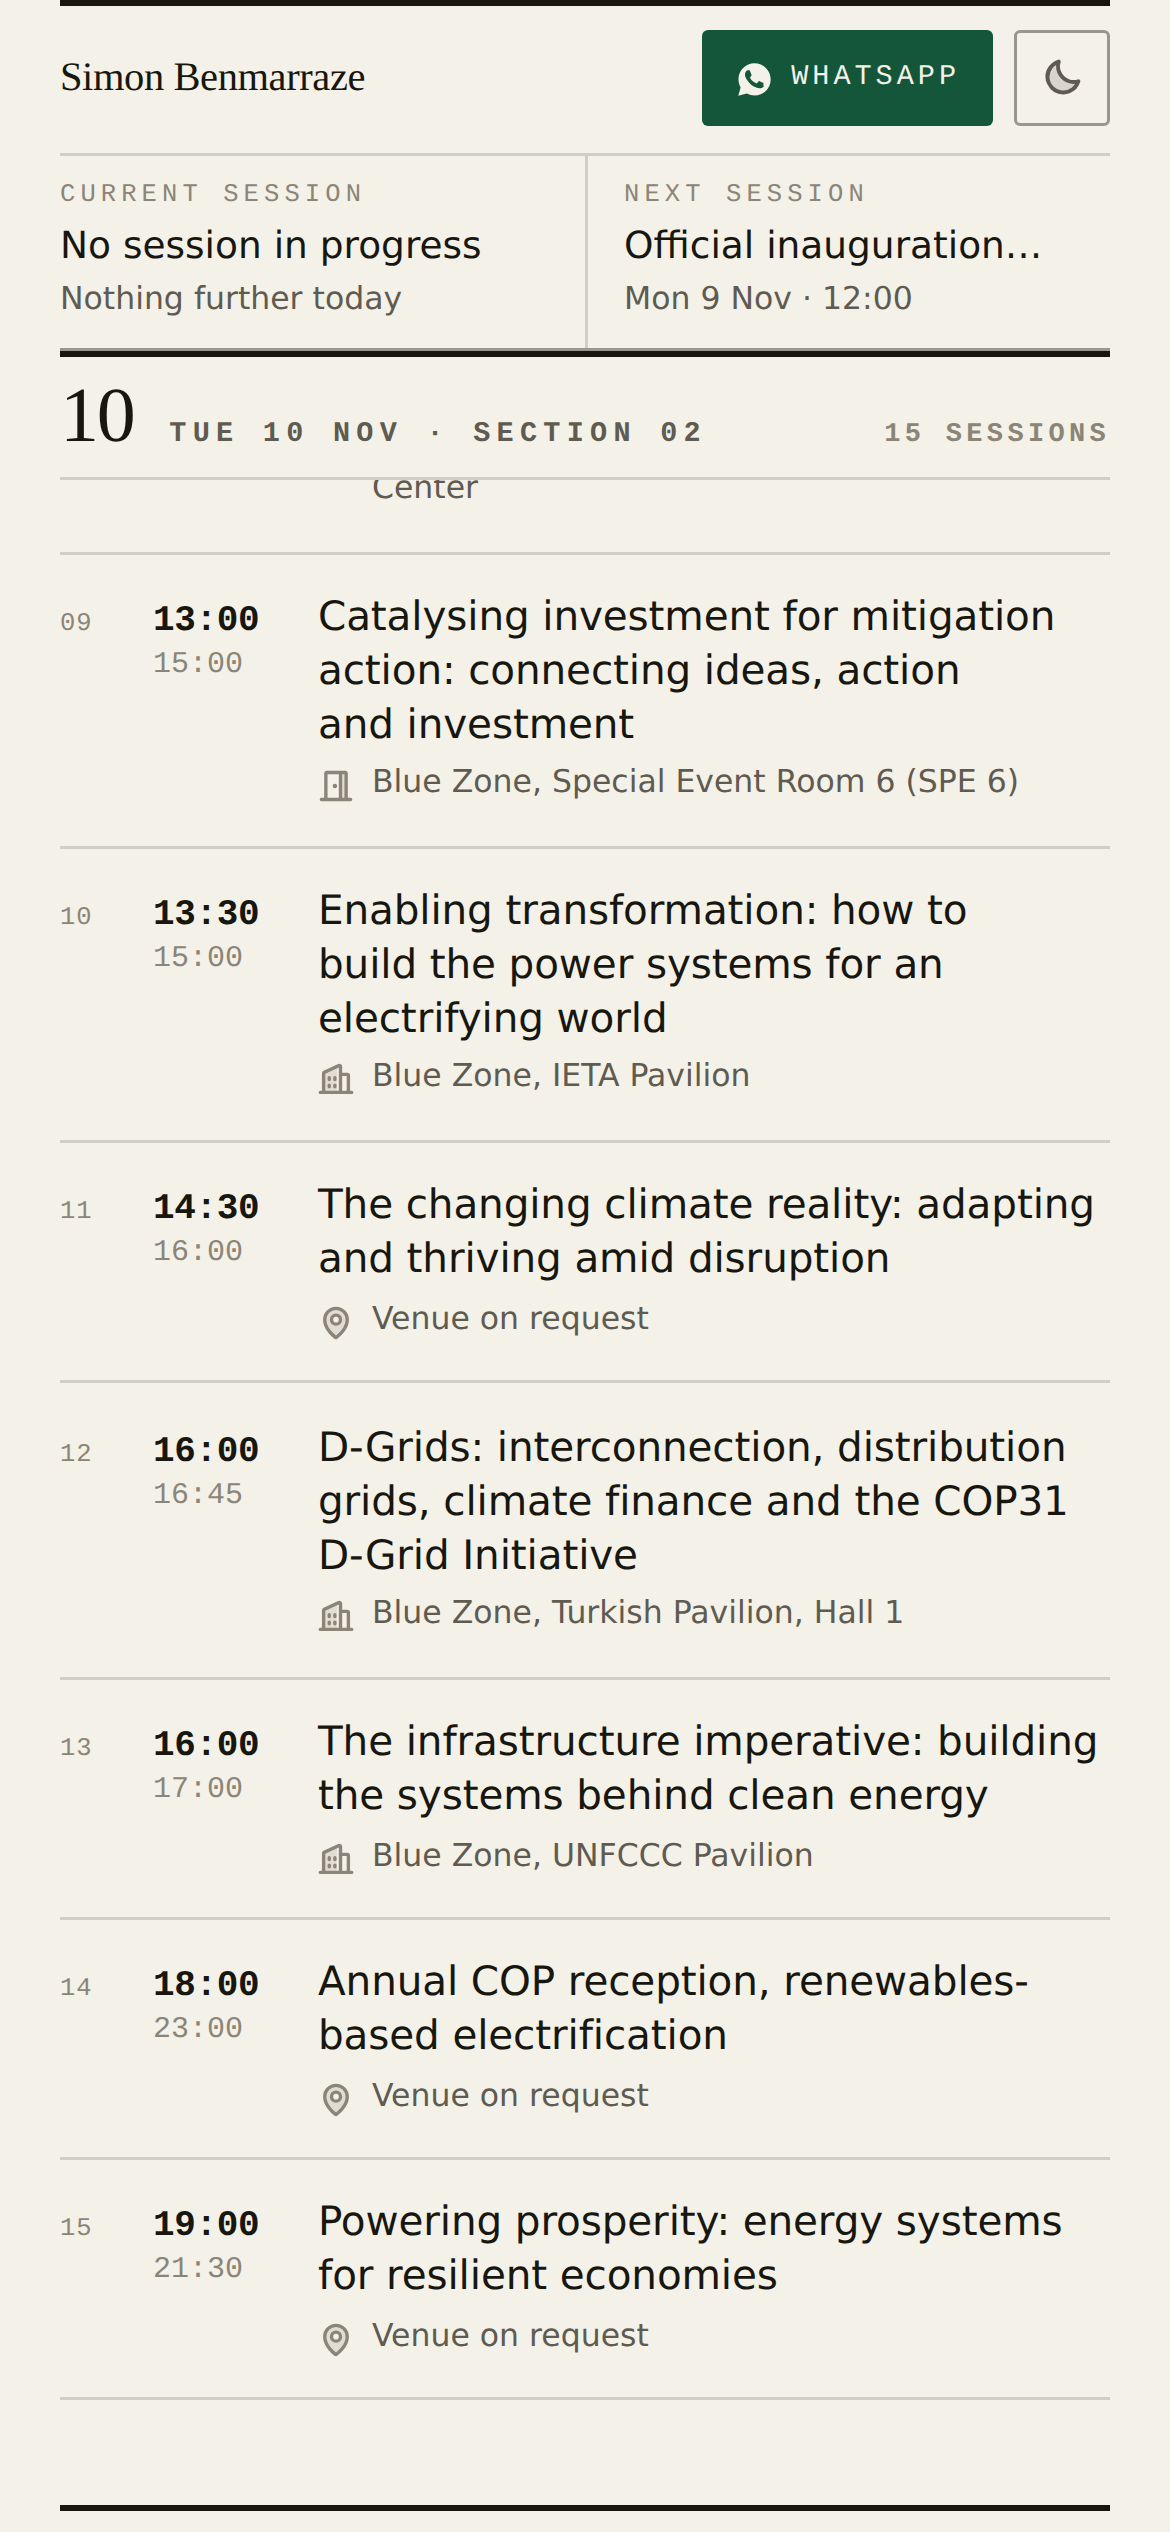
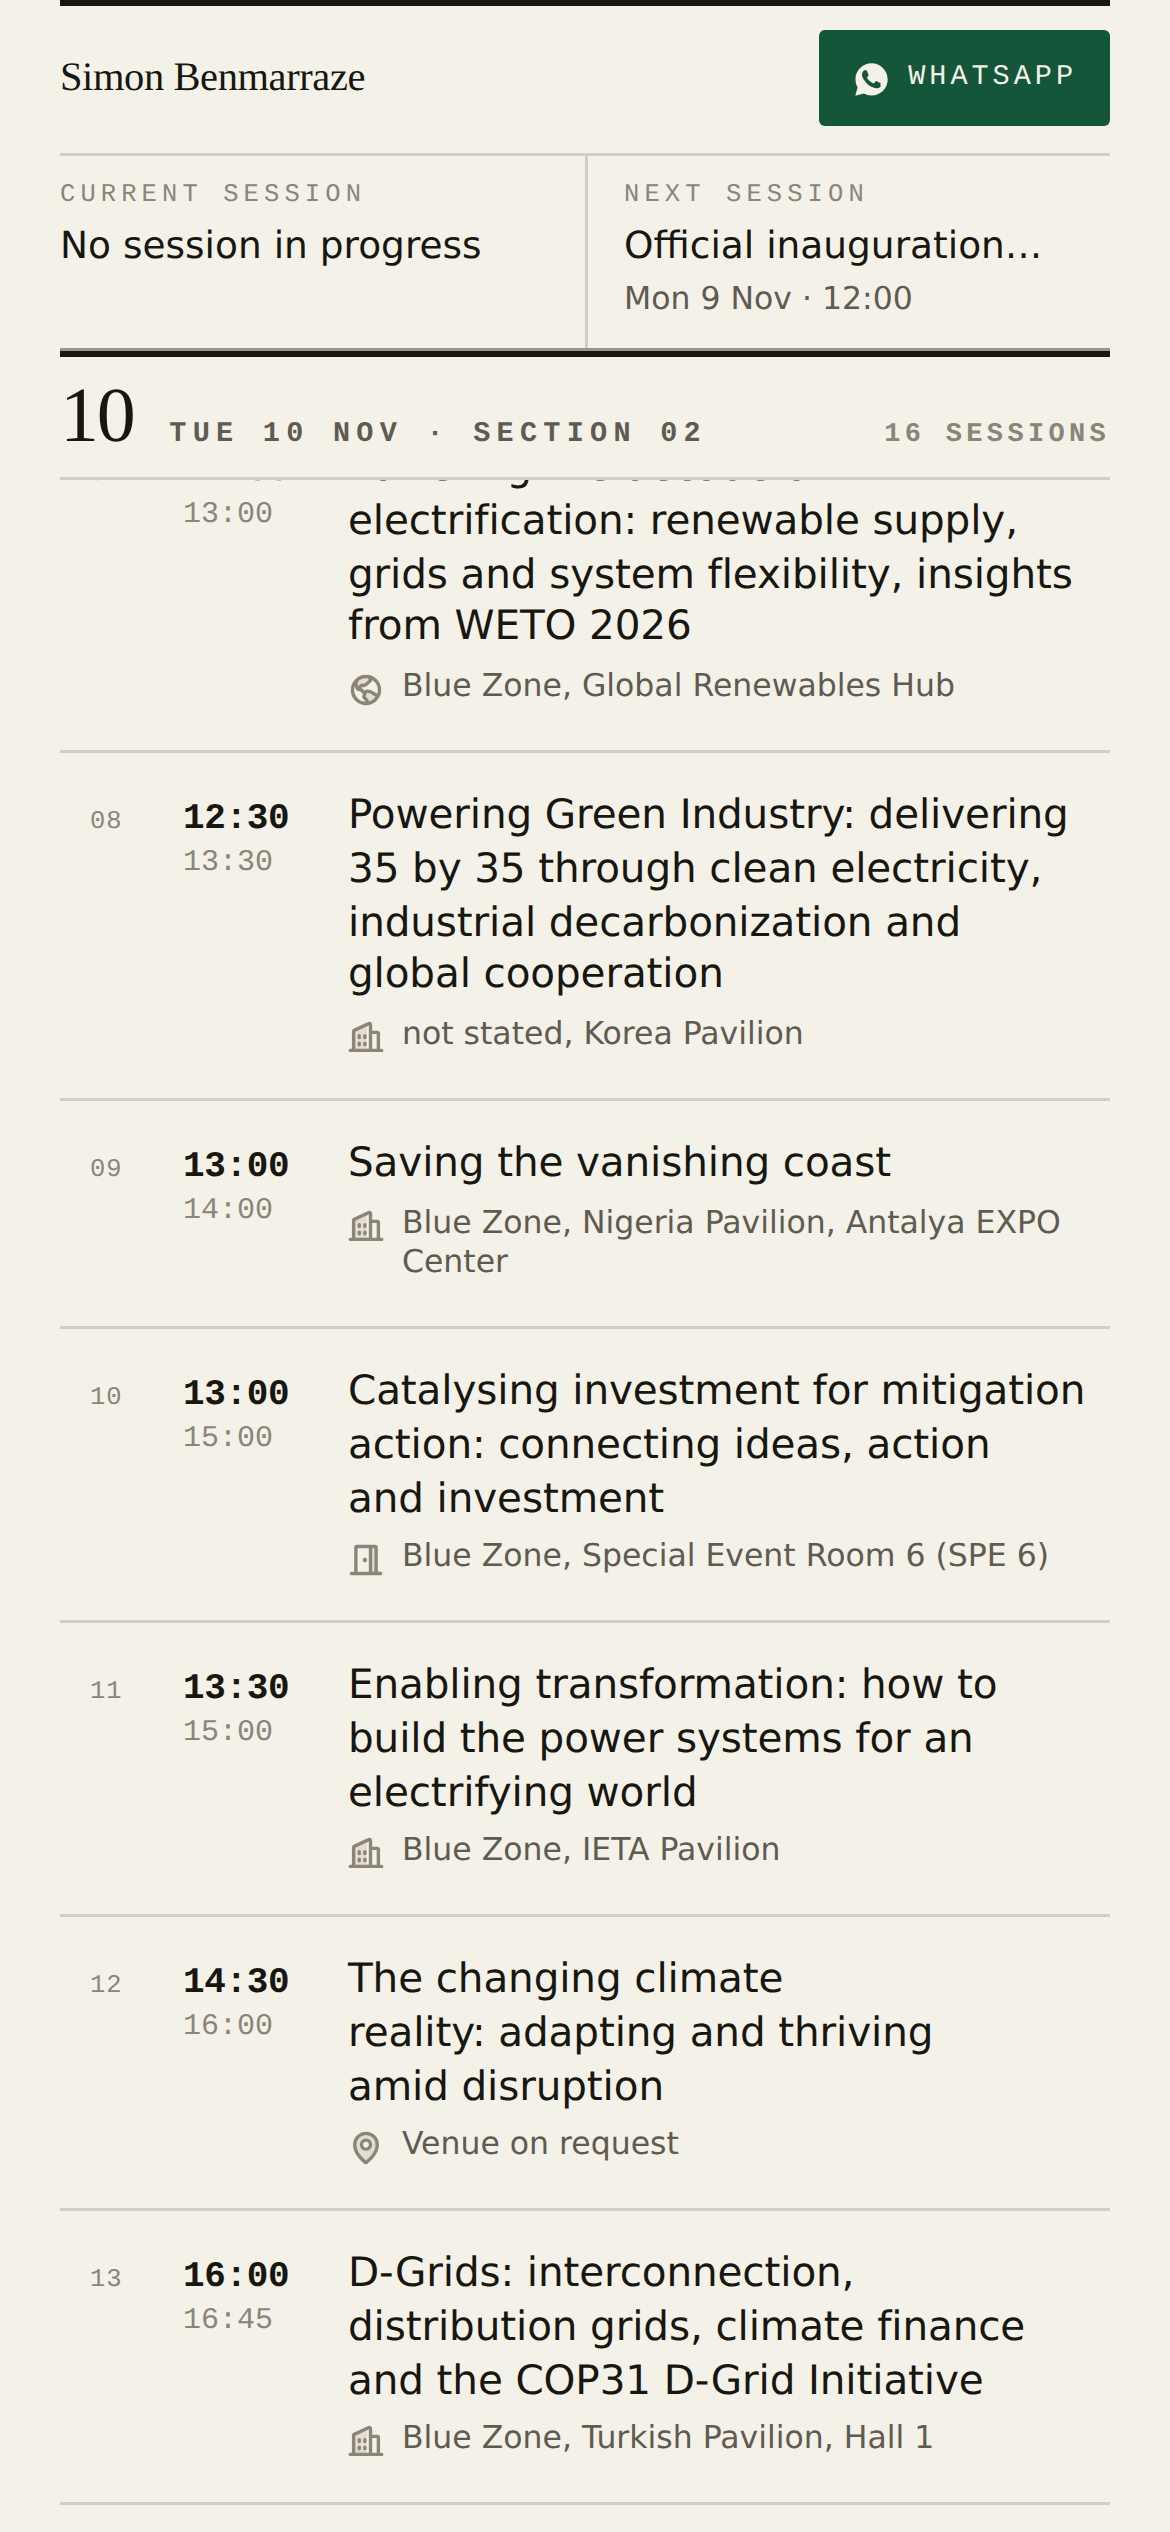
Header simplified: facts moved to colophon, one WhatsApp action, identity row only on scroll

diff --git a/docs/index.html b/docs/index.html
@@ -43,7 +43,7 @@ main{max-width:var(--max);margin:0 auto}
 a{color:inherit}
 .serif,h1,.who,.dayline .dn,.contact .num{
   font-family:"Iowan Old Style","Palatino Linotype",Palatino,"Book Antiqua",Georgia,serif}
-.mono,.eyebrow,.facts,.dayline .dl,.dayline .dc,.idx,.tm,.btn,.mapfoot,.cell .k,.chipwa,.lbl,.colophon{
+.mono,.eyebrow,.dayline .dl,.dayline .dc,.idx,.tm,.btn,.mapfoot,.cell .k,.chipwa,.lbl,.colophon{
   font-family:ui-monospace,"SF Mono",Menlo,Consolas,"Liberation Mono",monospace}
 .skip{position:absolute;left:-9999px;top:0;z-index:60;background:var(--ink);color:var(--paper);
   padding:10px 14px;font-size:12px;text-decoration:none}
@@ -81,19 +81,13 @@ header{padding:30px 0 0}
 .qrmodal .btn{margin:0 14px 14px;width:calc(100% - 28px)}
 h1{font-weight:400;font-size:clamp(34px,9vw,54px);line-height:.95;letter-spacing:-.025em;
   margin:16px 0 0;text-wrap:balance}
-.sub{margin:12px 0 0;font-size:14px;line-height:1.45;color:var(--ink2);max-width:46ch}
-.facts{margin:16px 0 0;padding:9px 0;font-size:9px;letter-spacing:.12em;text-transform:uppercase;
-  color:var(--faint);border-top:1px solid var(--rule2);border-bottom:1px solid var(--rule)}
+.sub{margin:14px 0 0;display:flex;align-items:center;gap:7px;font-size:14px;line-height:1.45;
+  color:var(--ink2);max-width:46ch}
+.sub svg{width:14px;height:14px;flex:none;color:var(--faint)}
+
 
 /* contact as a plan note */
-.contactline{margin:18px 0 0;display:flex;align-items:baseline;gap:12px;flex-wrap:wrap;
-  padding-bottom:10px;border-bottom:1px solid var(--rule)}
-.contactline .lbl{font-size:8.5px;letter-spacing:.2em;text-transform:uppercase;color:var(--faint)}
-.contactline .num{font-size:17px;letter-spacing:-.01em;text-decoration:none}
-.contactline .mini{font-family:ui-monospace,Menlo,monospace;font-size:9px;letter-spacing:.14em;
-  text-transform:uppercase;color:var(--ink2);text-decoration:none;border-bottom:1px solid var(--rule2);
-  padding-bottom:1px}
-.contactline .mini:hover{color:var(--ink);border-color:var(--ink)}
+.sub{margin-bottom:2px}
 
 /* buttons */
 .btn{display:inline-flex;align-items:center;justify-content:center;gap:7px;min-height:40px;
@@ -112,7 +106,8 @@ h1{font-weight:400;font-size:clamp(34px,9vw,54px);line-height:.95;letter-spacing
 .live{position:sticky;top:0;z-index:30;background:var(--paper);
   margin:20px 0 0;padding:calc(8px + env(safe-area-inset-top,0px)) 0 0;
   border-top:2px solid var(--ink);border-bottom:1px solid var(--rule2)}
-.idbar{display:flex;align-items:center;justify-content:space-between;gap:10px;padding-bottom:9px}
+.idbar{display:none;align-items:center;justify-content:space-between;gap:10px;padding-bottom:9px}
+body.h1-gone .idbar{display:flex}
 .who{font-size:13.5px;letter-spacing:-.01em;white-space:nowrap;overflow:hidden;text-overflow:ellipsis}
 .idbar .tools{display:flex;align-items:center;gap:7px;flex:none}
 .chipwa{display:inline-flex;align-items:center;gap:6px;text-decoration:none;min-height:32px;padding:0 11px;
@@ -218,14 +213,8 @@ footer{margin:30px 0 0}
       <svg class="ic-btn" aria-hidden="true"><use href="#i-qr-code"></use></svg> QR
     </button></div>
   <h1>Simon Benmarraze</h1>
-  <p class="sub">Antalya, T&uuml;rkiye &middot; 9 to 20 November 2026</p>
-  <p class="facts">UTC+3 &middot; 55 sessions &middot; updated 7 Nov, 18:07</p>
+  <p class="sub"><svg class="ic" aria-hidden="true"><use href="#i-map-pin"></use></svg><span>Antalya, T&uuml;rkiye &middot; 9 to 20 November 2026</span></p>
 
-  <p class="contactline"><span class="lbl">WhatsApp</span>
-    <a class="num" href="tel:+491721523311">+49 172 1523311</a>
-    <a class="mini" href="https://wa.me/491721523311" rel="noopener">message</a>
-    <a class="mini" href="simon.vcf" download>contact card</a>
-  </p>
 </header>
 
 <div class="live" id="liveBar" aria-live="polite">
@@ -269,7 +258,7 @@ footer{margin:30px 0 0}
     <span class="left"><svg class="ic-btn" aria-hidden="true"><use href="#i-map-trifold"></use></svg> Blue Zone map, PDF</span>
     <span class="ext"><svg class="ic-ext" aria-hidden="true"><use href="#i-arrow-square-out"></use></svg></span>
   </a>
-  <p class="colophon"><span>COP31 &middot; Antalya</span><span>Sessions 55 &middot; sections 10</span></p>
+  <p class="colophon"><span>UTC+3 &middot; 55 sessions &middot; updated 7 Nov, 19:23</span></p>
 </footer>
 </main>
 
@@ -703,14 +692,15 @@ function paint(){
   } else {
     nowCell.classList.remove('live-now');
     const t = ROWS.filter(r=>r.date===date && MIN(r.start)>mins)[0];
-    document.getElementById('nowV').textContent = t ? `No session in progress. Next at ${t.start}` : 'No session in progress';
-    document.getElementById('nowM').textContent = t ? t.title : 'Nothing further today';
+    // the next cell already carries the time and title, so say it once
+    document.getElementById('nowV').textContent = 'No session in progress';
+    document.getElementById('nowM').textContent = '';
   }
   if (later){
     document.getElementById('nextV').textContent = later.title;
     document.getElementById('nextM').textContent = `${dayLabel(later.date,date)} · ${later.start}`;
   } else {
-    document.getElementById('nextV').textContent = 'End of programme';
+    document.getElementById('nextV').textContent = '';
     document.getElementById('nextM').textContent = '';
   }
 }
@@ -724,6 +714,16 @@ function bootTheme(){
     document.getElementById('themeBtn').setAttribute('aria-label', 'Switch to ' + (next==='dark'?'light':'dark') + ' theme');
   });
 }
+function bootWho(){
+  const who = document.querySelector('.idbar .who');
+  const h1 = document.querySelector('h1');
+  if (!who || !h1 || !('IntersectionObserver' in window)) return;
+  new IntersectionObserver(([e]) => {
+    const changed = document.body.classList.toggle('h1-gone', !e.isIntersecting);
+    if (changed && typeof measureBar === 'function') requestAnimationFrame(measureBar);
+  }, {rootMargin: '-8px 0px 0px 0px'}).observe(h1);
+}
+bootWho();
 function bootQR(){
   const dlg = document.getElementById('qrModal');
   const open = document.getElementById('qrOpen');
